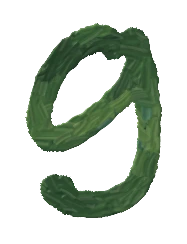
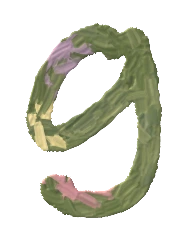
Landing title: softer palette, straight i with flower dot, lighter wind exit
Letters now in muted olive and warm moss with dusty rose, blush, butter,
cream and mauve deposits (some letters lean rosy). The i is a straight
brushed stem with the painted flower as its dot. The exit floats: shorter
up-and-right paths, a little sway and spin, letters shrink and fade and
are hidden once gone, all before Scene 2 settles, so none can linger at
the top right.

Changed region(s): [[0.1337, 0.0861, 0.8824, 0.918]]

diff --git a/src/components/landing/PaintedTitle.tsx b/src/components/landing/PaintedTitle.tsx
@@ -7,9 +7,10 @@ import title from "@/data/title-letters.json";
 // --title): lowercase "a garden / of ideas" on two staggered lines, the i's dot
 // a small painted flower. Each letter is its own layer, so the title can arrive
 // one letter at a time, lift under the pointer, and — as the visitor scrolls
-// into Scene 2 — be carried off by the wind: every letter drifts the same way
-// (up and to the right), each at its own pace, distance and spin, fading as it
-// goes, and all of them float back on the way up. The words are in the h1 for
+// into Scene 2 — be blown gently away: every letter floats the same way (up
+// and a little to the right), each on its own path, sway, spin and fade, growing
+// smaller and fainter until it is gone well before Scene 2 settles; all of them
+// float back on the way up. The words are in the h1 for
 // screen readers; the painted letters are decorative. With reduced motion the
 // title simply fades.
 
@@ -23,14 +24,14 @@ const rand = (i: number, k: number) => {
   return s - Math.floor(s);
 };
 const flights = layout.letters.map((l, i) => {
-  const across = (l.x + l.w / 2) / layout.width; // the wind reaches the left letters first
+  const across = (l.x + l.w / 2) / layout.width; // the breeze reaches the left letters first
   return {
-    delay: across * 0.28 + rand(i, 1) * 0.12,
-    span: 0.5 + rand(i, 2) * 0.25,
-    dx: 0.35 + rand(i, 3) * 0.3, // in viewport widths
-    dy: 0.12 + rand(i, 4) * 0.22, // in viewport heights, upward
-    spin: (12 + rand(i, 5) * 38) * (rand(i, 6) < 0.8 ? 1 : -1),
-    flutter: 6 + rand(i, 7) * 12,
+    delay: across * 0.18 + rand(i, 1) * 0.08, // ≤ 0.26
+    span: 0.32 + rand(i, 2) * 0.16, // ≤ 0.48, so every letter has left by 74% of the way
+    dx: 0.1 + rand(i, 3) * 0.14, // in viewport widths
+    dy: 0.12 + rand(i, 4) * 0.12, // in viewport heights, upward
+    spin: (8 + rand(i, 5) * 18) * (rand(i, 6) < 0.75 ? 1 : -1),
+    sway: 10 + rand(i, 7) * 14, // px, side to side as it floats
     phase: rand(i, 8) * Math.PI * 2,
   };
 });
@@ -52,20 +53,22 @@ export default function PaintedTitle({ id, className = "" }: { id: string; class
     const update = () => {
       raf = 0;
       const vw = window.innerWidth, vh = window.innerHeight;
-      const p = Math.min(1.4, Math.max(0, window.scrollY / (vh * 0.6)));
+      const p = Math.max(0, window.scrollY / (vh * 0.55));
       letters.forEach((el, i) => {
         const f = flights[i];
         const q = Math.min(1, Math.max(0, (p - f.delay) / f.span));
+        const fade = 1 - smooth(0.08, 0.8, q);
+        el.style.visibility = fade <= 0.001 ? "hidden" : ""; // once gone, truly gone: nothing lingers at the edges
         if (calm.matches) {
           el.style.transform = "";
-          el.style.opacity = String(1 - smooth(0, 1, p));
+          el.style.opacity = String(1 - smooth(0, 0.7, p));
           return;
         }
-        const e = Math.pow(q, 1.7); // starts gently, then the gust takes it
-        const x = e * f.dx * vw + Math.sin(q * Math.PI * 1.5 + f.phase) * f.flutter * q;
-        const y = -e * f.dy * vh + Math.sin(q * Math.PI * 2.2 + f.phase) * f.flutter * 0.6 * q;
-        el.style.transform = q ? `translate3d(${x.toFixed(1)}px, ${y.toFixed(1)}px, 0) rotate(${(e * f.spin).toFixed(1)}deg)` : "";
-        el.style.opacity = String(1 - smooth(0.3, 1, q));
+        const e = smooth(0, 1, q); // lifts off softly and floats, no tug
+        const x = e * f.dx * vw + Math.sin(q * Math.PI * 2 + f.phase) * f.sway * q;
+        const y = -e * f.dy * vh - Math.sin(q * Math.PI) * f.sway * 0.4;
+        el.style.transform = q ? `translate3d(${x.toFixed(1)}px, ${y.toFixed(1)}px, 0) rotate(${(e * f.spin).toFixed(1)}deg) scale(${(1 - 0.22 * e).toFixed(3)})` : "";
+        el.style.opacity = String(fade);
       });
     };
     const onScroll = () => { if (!raf) raf = requestAnimationFrame(update); };

diff --git a/docs/FOUR-PAGE-STRUCTURE.md b/docs/FOUR-PAGE-STRUCTURE.md
@@ -60,10 +60,11 @@ The Landing statements live in `src/data/site.ts` → `landingScenes`. Edit them
   leaf bullets. Project images sit straight on the page with no card, border or tape; only those with an opaque
   background get a faint, diffused neutral shadow. The images themselves are untouched.
 - **Landing title and cursor.** "A Garden of Ideas" is hand-lettered with a brush in oil, lowercase on two staggered
-  lines ("a garden / of ideas"), in deep garden greens with a few blush and cream-yellow touches; the i's dot is a
-  small painted flower (`node scripts/paint-landing.mjs --title`, letterforms from Bradley Hand Bold, repainted with
+  lines ("a garden / of ideas"), in muted olive and warm moss with deposits of dusty rose, blush, butter, cream
+  and mauve; the i is a straight brushed stem whose dot is a small painted flower (`node scripts/paint-landing.mjs --title`, letterforms from Bradley Hand Bold, repainted with
   strokes that follow each letter and a dry-brush edge). The letters arrive one by one, left to right; each lifts,
-  sways and bounces a little under the pointer; and scrolling into Scene 2 carries them off on the wind (same
-  direction, each its own pace, distance and spin), back again on the way up. The h1 keeps "A Garden of Ideas" for
+  sways and bounces a little under the pointer; and scrolling into Scene 2 blows them gently away (all up
+  and a little to the right, each on its own path, sway, spin and fade, shrinking as they go; all gone before
+  Scene 2 settles), back again on the way up. The h1 keeps "A Garden of Ideas" for
   screen readers. On devices with a mouse a small painted butterfly (`--butterfly`) is the cursor on the Landing
   page only, with its head at the click point; over links the normal pointer returns. Touch devices and reduced motion keep the normal cursor.
